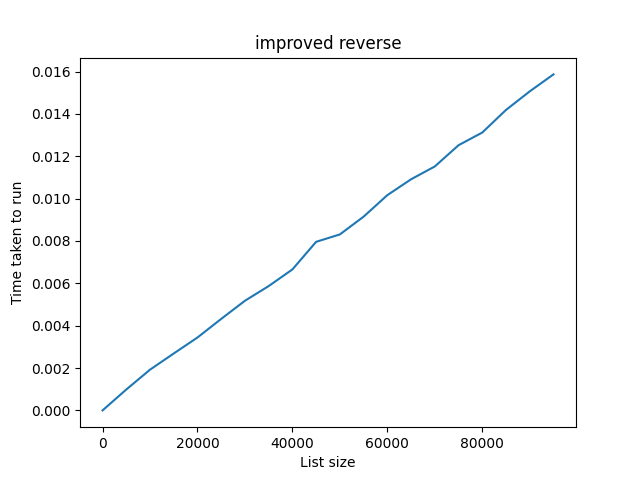
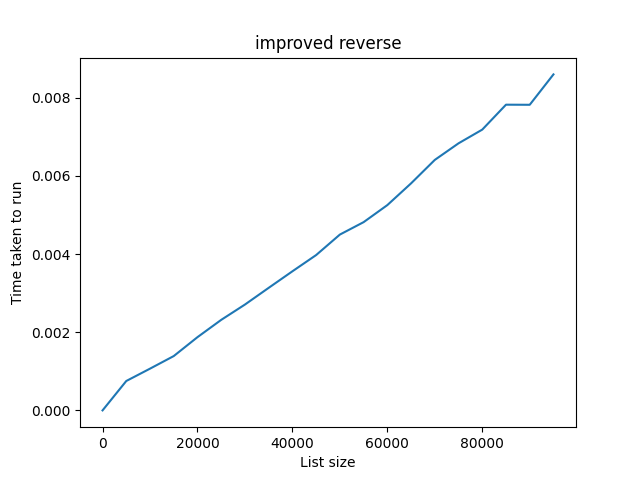
refactored improved_reverse algorithm as I realised I did not need to create a new empty array to append to. Instead I just needed to swap round i.e. reassign elements within the initial array

diff --git a/timer_simple/make_reverse_faster.py b/timer_simple/make_reverse_faster.py
@@ -14,25 +14,24 @@ def inefficient_reverse(test_list):
 def improved_reverse(test_list):
     if len(test_list) == 0:
         return test_list
-    newlist = []
     midpoint = len(test_list) // 2
     last_idx = len(test_list) - 1
     i = 0
-    while i < len(test_list):
-        # print(i)
-        # print(last_idx)
-        # print(last_idx - i)
-        # print(test_list[last_idx - i])
-        newlist.append(test_list[last_idx - i])
+    while i < midpoint:
+
+        first = test_list[i]
+        last = test_list[last_idx - i]
+        test_list[i], test_list[last_idx - i] = last, first
         i += 1
-    return newlist
+    # print(test_list) only did this to check it works
+    return test_list
 
 
 # improved_reverse([1, 2, 3, 4, 5, 6])
 testData = generateTestDataLists()[0]
 listSizes = generateTestDataLists()[1]
 
-times = calcTimes(function=improved_reverse, data=testData, repetitions=50)
+times = calcTimes(function=improved_reverse, data=testData, repetitions=100)
 # times = calcTimes(function=inefficient_reverse, data=testData, repetitions=10)
 print(times)
 
